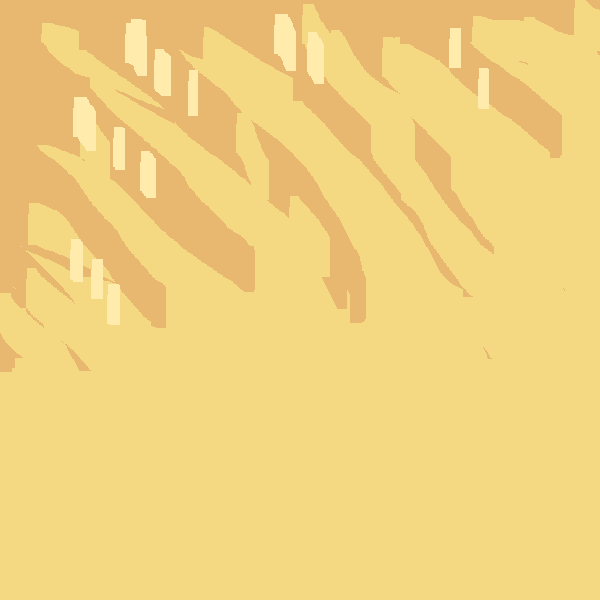
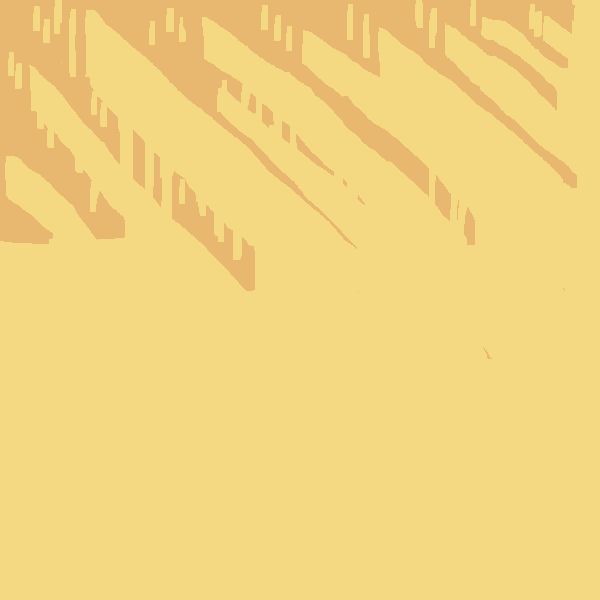
Done being Bob Ross

diff --git a/lib/game/background.js b/lib/game/background.js
@@ -35,28 +35,14 @@ ig.module(
                             this.forestBackground = new ig.BackgroundMap(600, data, 'media/treeBackground.png');
                             this.forestBackground.repeat = true;
 
-                            /*
-                            this.skyBackground = new ig.BackgroundMap(600, data, 'media/bg_space/sky.png');
-                            this.skyBackground.scroll.y =+ 150;
-
-                            this.forestBackground = new ig.BackgroundMap(600, data, 'media/bg_space/forest.png');
-                            this.forestBackground.repeat = true;
-
-                            this.forest2Background = new ig.BackgroundMap(600, data, 'media/bg_space/forest2.png');
-                            this.forest2Background.repeat = true;
-
-                            this.titanBackground = new ig.BackgroundMap(600, data, 'media/bg_space/titan.png');
-
-                            this.starsBackground = new ig.BackgroundMap(600, data, 'media/bg_space/stars.png');
-                            this.starsBackground.repeat = true;
-                               */
-
+                            this.forestBackground2 = new ig.BackgroundMap(600, data, 'media/treeBackground2.png');
+                            this.forestBackground2.repeat = true;
+                            this.forestBackground2.scroll.y = 40;
 
                             this._mapWidth = ig.game.backgroundMaps[0].width * ig.game.backgroundMaps[0].tilesize - (ig.system.width);
                             this._mapHeight = ig.game.backgroundMaps[0].height * ig.game.backgroundMaps[0].tilesize - (ig.system.height);
 
                             this.variablesBeenSet = true;
-
                         }
 
 
@@ -64,47 +50,15 @@ ig.module(
                         if( player ) {
 
 
-
-                            //this.starsBackground.scroll.x += ig.system.tick * 2;
-
-
                             //*********
                             // prevent background from scrolling if close to a map edge
-
 
                             var x = player.pos.x - (ig.system.width / 2);
                             if (  x > 0 && x < this._mapWidth )
                             {
                                 this.forestBackground.scroll.x += (player.vel.x / 100);
-                               // this.forest2Background.scroll.x += (player.vel.x / 150);
+                                this.forestBackground2.scroll.x += (player.vel.x / 150);
                             }
-
-
-                            /*
-
-                            // 2nd forest backdrop y-axis shifting
-                            //***********************************************
-                            var topForest2BackgroundLimit = 20;
-                            var bottomForest2BackgroundLimit = -20;
-                            var yHolder = (player.pos.y/50);
-
-                            if ( (yHolder < topForest2BackgroundLimit) &&
-                                (yHolder > bottomForest2BackgroundLimit))
-                            {
-
-                                this.forest2Background.scroll.y = yHolder ;
-                            }
-                            else if (yHolder >= topForest2BackgroundLimit)
-                            {
-                                this.forest2Background.scroll.y = topForest2BackgroundLimit;
-
-                            }
-                            else
-                            {
-                                this.forest2Background.scroll.y = bottomForest2BackgroundLimit;
-                            }
-                            //***********************************************
-                              */
 
                             this.parent();
 
@@ -118,8 +72,8 @@ ig.module(
                     draw: function() {
 
                         this.background.draw();
+                        this.forestBackground2.draw();
                         this.forestBackground.draw();
-
 
                         this.parent();
 
